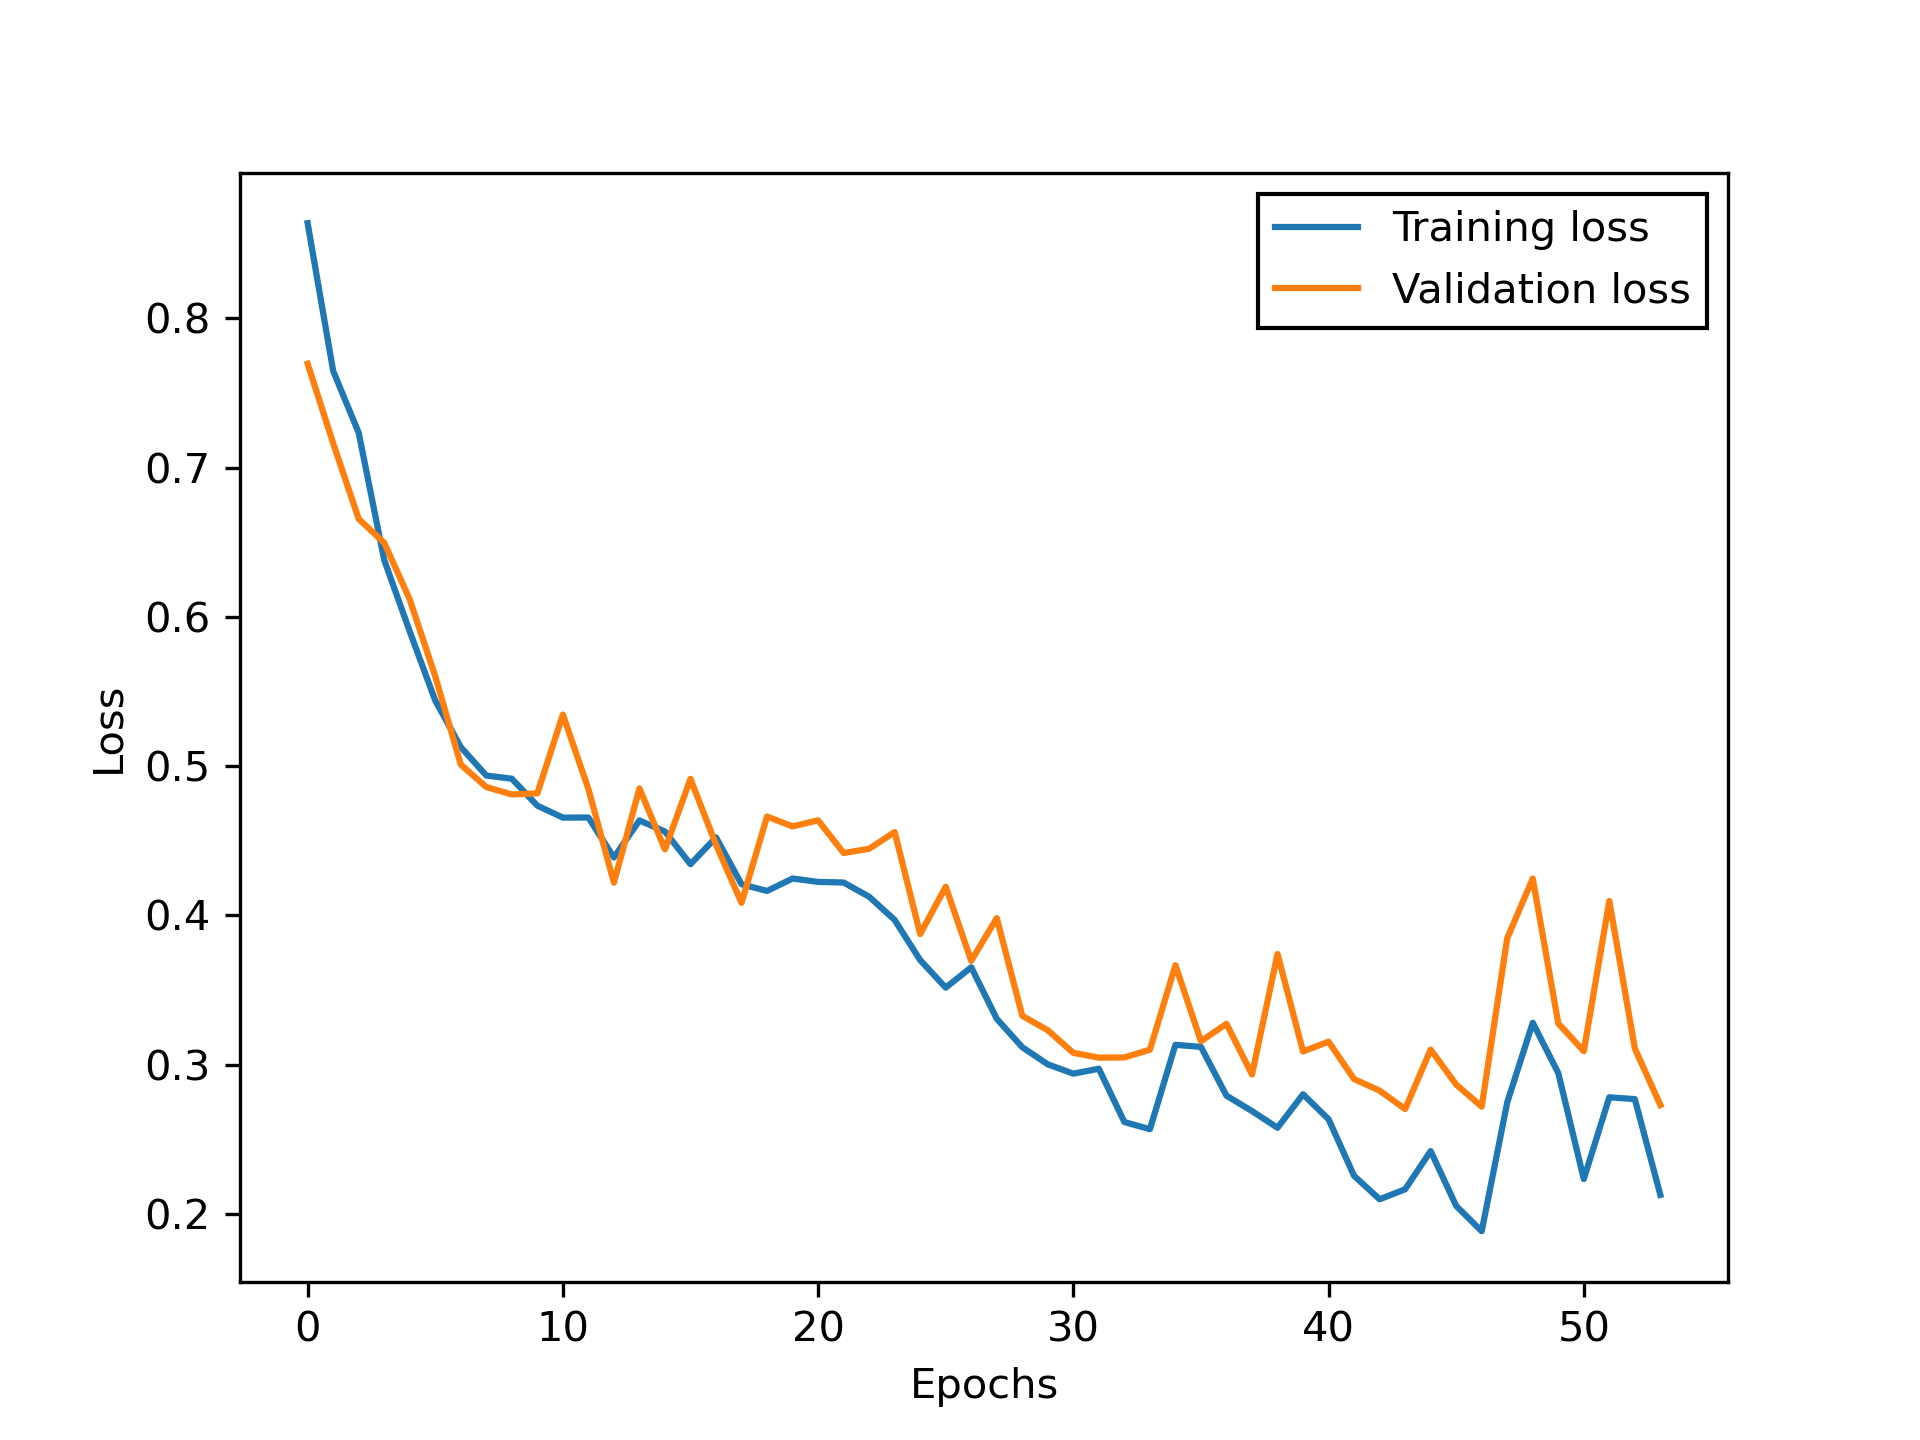
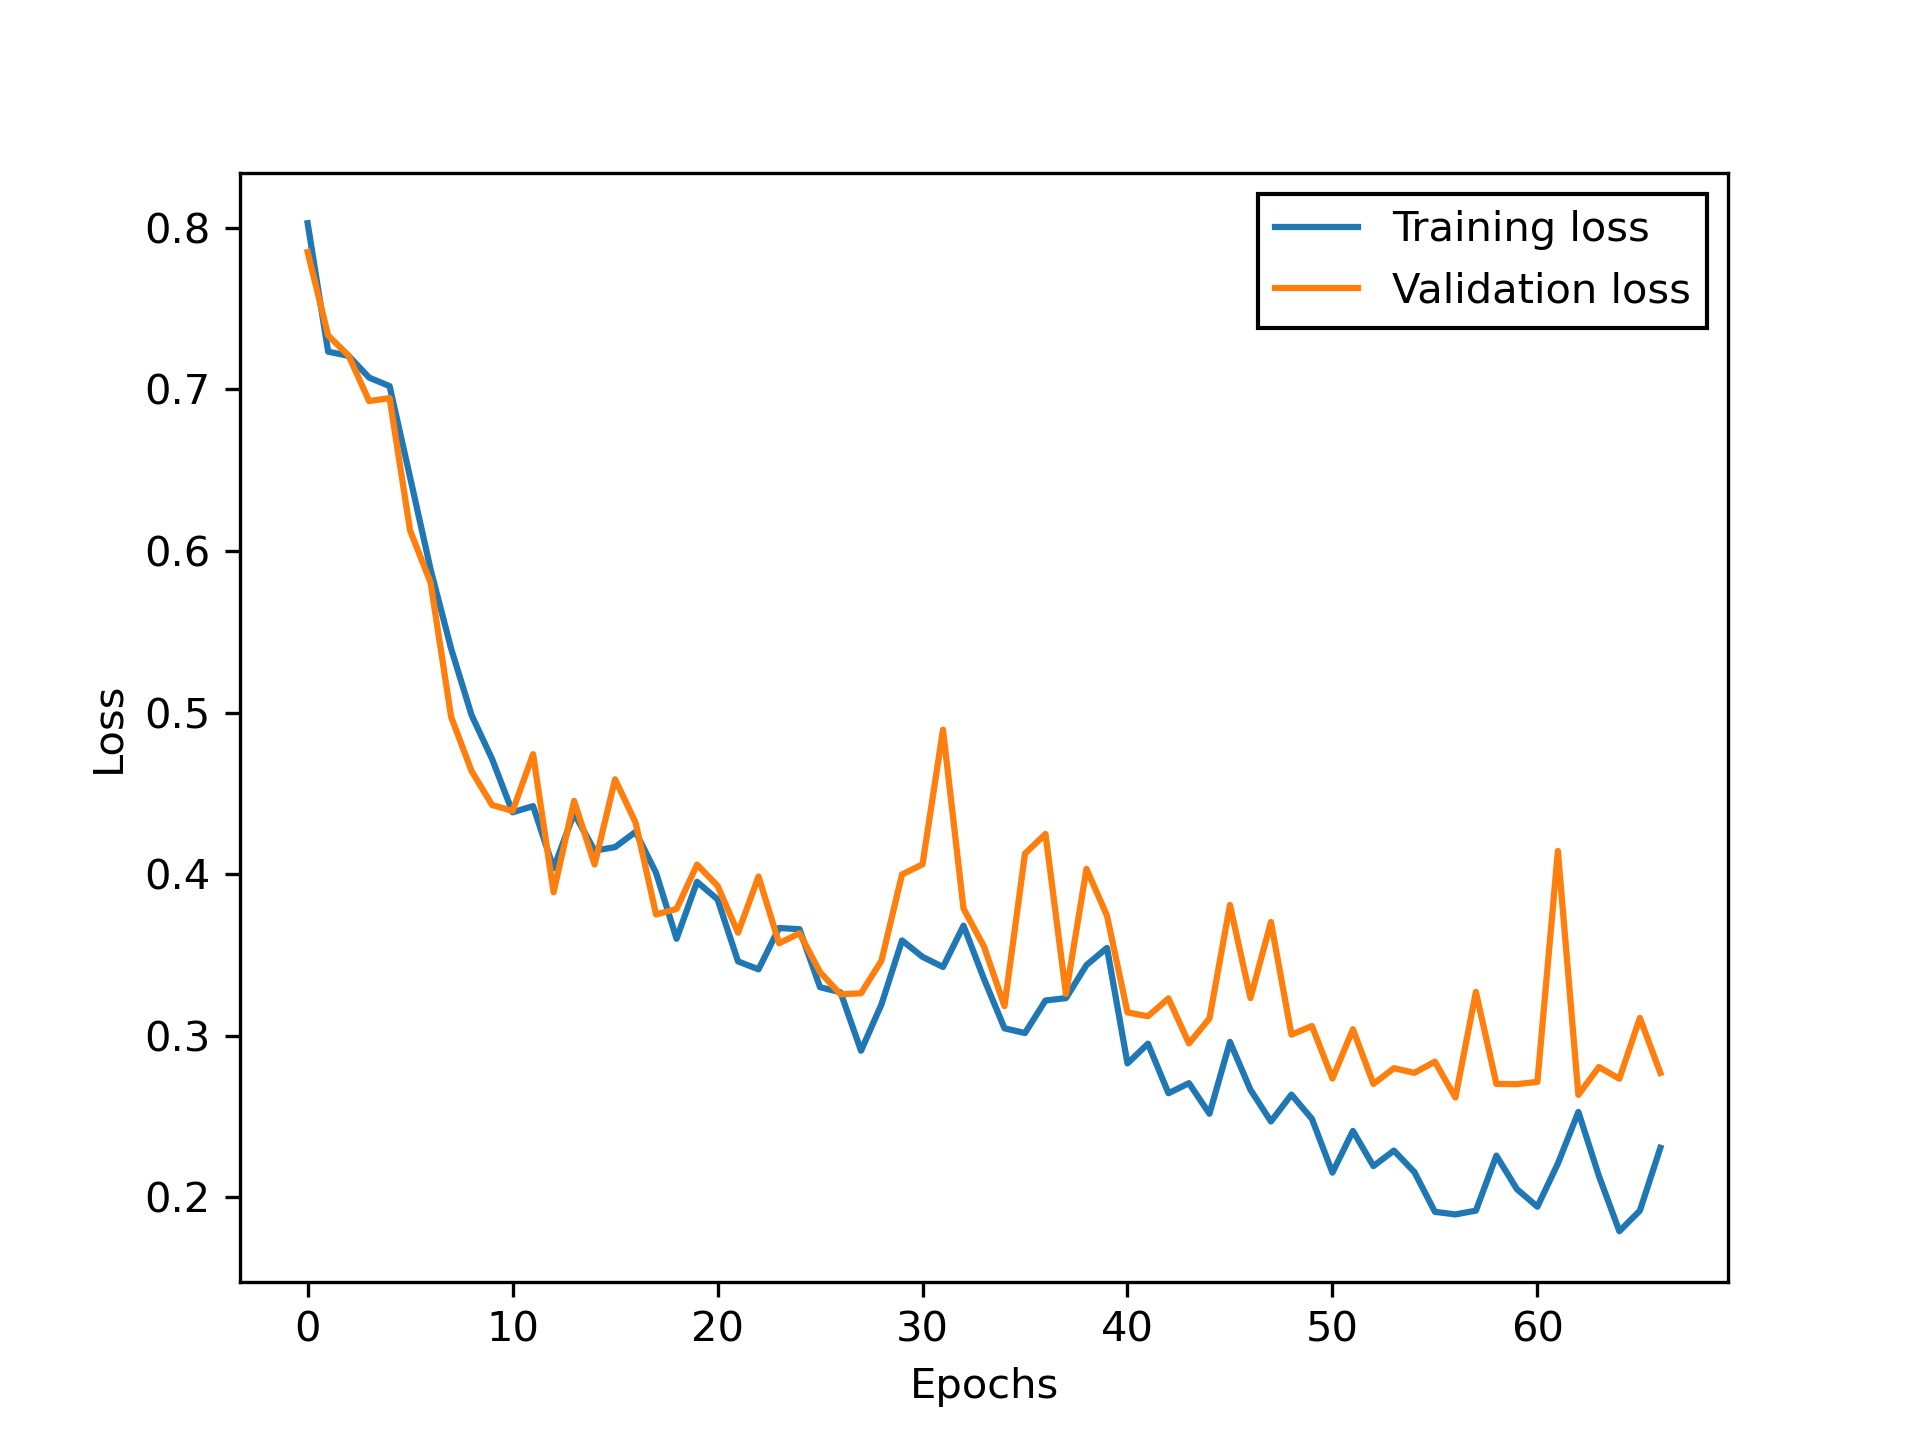
update

diff --git a/cross_models/cross_decoder.py b/cross_models/cross_decoder.py
@@ -3,6 +3,7 @@ import torch.nn as nn
 import torch.nn.functional as F
 from einops import rearrange, repeat
 from cross_models.attn import FullAttention, AttentionLayer, TwoStageAttentionLayer
+# from kan import KAN
 
 class DecoderLayer(nn.Module):
     '''

diff --git a/readme.md b/readme.md
@@ -1,145 +1,32 @@
-# Crossformer: Transformer Utilizing Cross-Dimension Dependency for Multivariate Time Series Forecasting (ICLR 2023)
+# Stiff Circuit System Modeling via Transformer
 
-This is the origin Pytorch implementation of [Crossformer: Transformer Utilizing Cross-Dimension Dependency for Multivariate Time Series Forecasting](https://openreview.net/forum?id=vSVLM2j9eie).
+Weiman Yan, Yi-Chia Chang, Wanyu Zhao, Liam Li
 
-## Key Points of Crossformer
-**1. Dimension-Segment-Wise (DSW) Embedding**
-<p align="center">
-<img src=".\pic\DSW.PNG" height = "200" alt="" align=center />
+## Dataset
 
-<b>Figure 1.</b> DSW embedding. <b>Left</b>: Embedding method of previous Transformer-based model: data points in different dimensions at the same step are embedded into a vector; <b>Right</b>: DSW embedding  of Crossformer: in each dimension, nearby points over time form a segment for embedding.
+The dataset `datasets/adc/ft/adc.csv` contains 2000 data records. Each data record consists of 5 rows where the first three rows are input signals and the last two rows are output signals. The dataset is obtained by running SPICE transient simulation on an ADC circuit. Input signal is generated using PRBS sequences and output signal is sampled every 2.5 ns.
+
+## Experiment result
+<p float="left">
+<img src=".\figs\loss.png" height = "300" alt="" align=center />
+<img src=".\figs\prediction.png" height = "300" alt="" align=center />
+
+<b>Figure 1.</b> The loss curves vs epochs (left) and one example fitting result using trained model.
 </p>
 
-**2. Two-Stage Attention (TSA) Layer**
-<p align="center">
-<img src=".\pic\TSA.PNG" height = "200" alt="" align=center />
+## Reproduce experiment result
 
-<b>Figure 2.</b> TSA layer. <b>Left</b>: Overall structure: the 2D vector array goes through the Cross-Time Stage and Cross-Dimension Stage to get corresponding dependency; <b>Middle</b>: Directly using MSA in Cross-Dimension Stage to build the $D$-to-$D$ 
-connection results in $O(D^2)$ complexity.  <b>Right</b>: Router mechanism for Cross-Dimension Stage: a small fixed number ($c$) of ``routers'' gather and distribute the information among dimensions. The complexity is reduced to $O(2cD) = O(D)$.
-</p>
+To reproduce the result, run
 
-**3. Hierarchical Encoder-Decoder (HED)**
-<p align="center">
-<img src=".\pic\HED.PNG" height = "200" alt="" align=center />
-
-<b>Figure 3.</b> HED. The encoder (left) uses TSA layer and segment merging to capture dependency at different scales; the decoder (right) makes the final prediction by forecasting at each scale and adding them up.
-</p>
-
-
-## Requirements
-
-- Python 3.7.10
-- numpy==1.20.3
-- pandas==1.3.2
-- torch==1.8.1
-- einops==0.4.1
-
-## Reproducibility
-1. Put datasets to conduct experiments into folder `datasets/`. We have already put `ETTh1` and `ETTm1` into it. `WTH` and `ECL` can be downloaded from 
-https://github.com/zhouhaoyi/Informer2020. `ILI` and `Traffic` can be downloaded from https://github.com/thuml/Autoformer. Note that the `WTH` we used in the paper is the one with 12 dimensions from Informer, not the one with 21 dimensions from Autoformer.
-
-2. To get results of Crossformer with $T=168, \tau = 24, L_{seg} = 6$ on ETTh1 dataset, run:
 ```
-python main_crossformer.py --data ETTh1 --in_len 168 --out_len 24 --seg_len 6 --itr 1
-```
-The model will be automatically trained and tested. The trained model will be saved in folder `checkpoints/` and evaluated metrics will be saved in folder `results/`.
-
-3. You can also evaluate a trained model by running:
-```
-python eval_crossformer.py --checkpoint_root ./checkpoints --setting_name Crossformer_ETTh1_il168_ol24_sl6_win2_fa10_dm256_nh4_el3_itr0
+python run_nrmse.py
 ```
 
-4. To reproduce all results in the paper, run following scripts to get corresponding results:
-```
-bash scripts/ETTh1.sh
-bash scripts/ETTm1.sh
-bash scripts/WTH.sh
-bash scripts/ECL.sh
-bash scripts/ILI.sh
-bash scripts/Traffic.sh
-```
+To use our model on the dataset, change `config.json` and our top-level `run_nrmse.py`.
 
+## Hardware requirements
+GPU: NVIDIA A100 GPU 40 GB
 
-## Custom Usage
-We use the [AirQuality](https://archive.ics.uci.edu/ml/machine-learning-databases/00360/AirQualityUCI.zip) dataset to show how to train and evaluate Crossformer with your own data. 
+Memory: 16 GB
 
-1. Modify the `AirQualityUCI.csv` dataset into the following format, where the first column is date (or you can just leave the first column blank) and the other 13 columns are multivariate time series to forecast. And put the modified file into folder `datasets/`
-<p align="center">
-<img src=".\pic\Data_format.PNG" height = "120" alt="" align=center />
-<br>
-<b>Figure 4.</b> An example of the custom dataset.
-</p>
-
-2. This is an hourly-sampled dataset with 13 dimensions. And we are going to use the past week (168 hours) to forecast the next day (24 hour) and the segment length is set to 6. Therefore, we need to run:
-```
-python main_crossformer.py --data AirQuality --data_path AirQualityUCI.csv --data_dim 13 --in_len 168 --out_len 24 --seg_len 6
-```
-
-3. We can evaluate the trained model by running:
-```
-python eval_crossformer.py --setting_name Crossformer_AirQuality_il168_ol24_sl6_win2_fa10_dm256_nh4_el3_itr0 --save_pred
-```
-The model will be evaluated, predicted and ground truth series will be saved in `results/Crossformer_AirQuality_il168_ol24_sl6_win2_fa10_dm256_nh4_el3_itr0`
-
-
-`main_crossformer` is the entry point of our model and there are other parameters that can be tuned. Here we describe them in detail:
-| Parameter name | Description of parameter |
-| --- | --- |
-| data           | The dataset name                                             |
-| root_path      | The root path of the data file (defaults to `./datasets/`)    |
-| data_path      | The data file name (defaults to `ETTh1.csv`)                  |
-| data_split | Train/Val/Test split, can be ratio (e.g. `0.7,0.1,0.2`) or number (e.g. `16800,2880,2880`), (defaults to `0.7,0.1,0.2`) 
-| checkpoints    | Location to store the trained model (defaults to `./checkpoints/`)  |
-| in_len | Length of input/history sequence, i.e. $T$ in the paper (defaults to 96) |
-| out_len | Length of output/future sequence, i.e. $\tau$ in the paper (defaults to 24) |
-| seg_len | Length of each segment in DSW embedding, i.e. $L_{seg}$ in the paper (defaults to 6) |
-| win_size | How many adjacent segments to be merged into one in segment merging of HED  (defaults to 2) |
-| factor | Number of routers in Cross-Dimension Stage of TSA, i.e. $c$ in the paper (defaults to 10) |
-| data_dim | Number of dimensions of the MTS data, i.e. $D$ in the paper (defaults to 7 for ETTh and ETTm) |
-| d_model | Dimension of hidden states, i.e. $d_{model}$ in the paper (defaults to 256) |
-| d_ff | Dimension of MLP in MSA (defaults to 512) |
-| n_heads | Num of heads in MSA (defaults to 4) |
-| e_layers | Num of encoder layers, i.e. $N$ in the paper (defaults to 3) |
-| dropout | The probability of dropout (defaults to 0.2) |
-| num_workers | The num_works of Data loader (defaults to 0) |
-| batch_size | The batch size for training and testing (defaults to 32) |
-| train_epochs | Train epochs (defaults to 20) |
-| patience | Early stopping patience (defaults to 3) |
-| learning_rate | The initial learning rate for the optimizer (defaults to 1e-4) |
-| lradj | Ways to adjust the learning rate (defaults to `type1`) |
-| itr | Experiments times (defaults to 1) |
-| save_pred | Whether to save the predicted results. If True, the predicted results will be saved in folder `results` in numpy array form. This will cost a lot time and memory for datasets with large $D$. (defaults to `False`). |
-| use_gpu | Whether to use gpu (defaults to `True`) |
-| gpu | The gpu no, used for training and inference (defaults to 0) |
-| use_multi_gpu | Whether to use multiple gpus (defaults to `False`) |
-| devices | Device ids of multile gpus (defaults to `0,1,2,3`) |
-
-## Citation
-If you find this repository useful in your research, please cite:
-```
-@inproceedings{
-zhang2023crossformer,
-title={Crossformer: Transformer Utilizing Cross-Dimension Dependency for Multivariate Time Series Forecasting},
-author={Yunhao Zhang and Junchi Yan},
-booktitle={International Conference on Learning Representations},
-year={2023},
-}
-```
-
-
-## Acknowledgement
-We appreciate the following works for their valuable code and data for time series forecasting:
-
-https://github.com/zhouhaoyi/Informer2020
-
-https://github.com/thuml/Autoformer
-
-https://github.com/alipay/Pyraformer
-
-https://github.com/MAZiqing/FEDformer
-
-The following two Vision Transformer works also inspire our DSW embedding and HED designs:
-
-https://github.com/google-research/vision_transformer
-
-https://github.com/microsoft/Swin-Transformer
+Number of CPUs: 8
